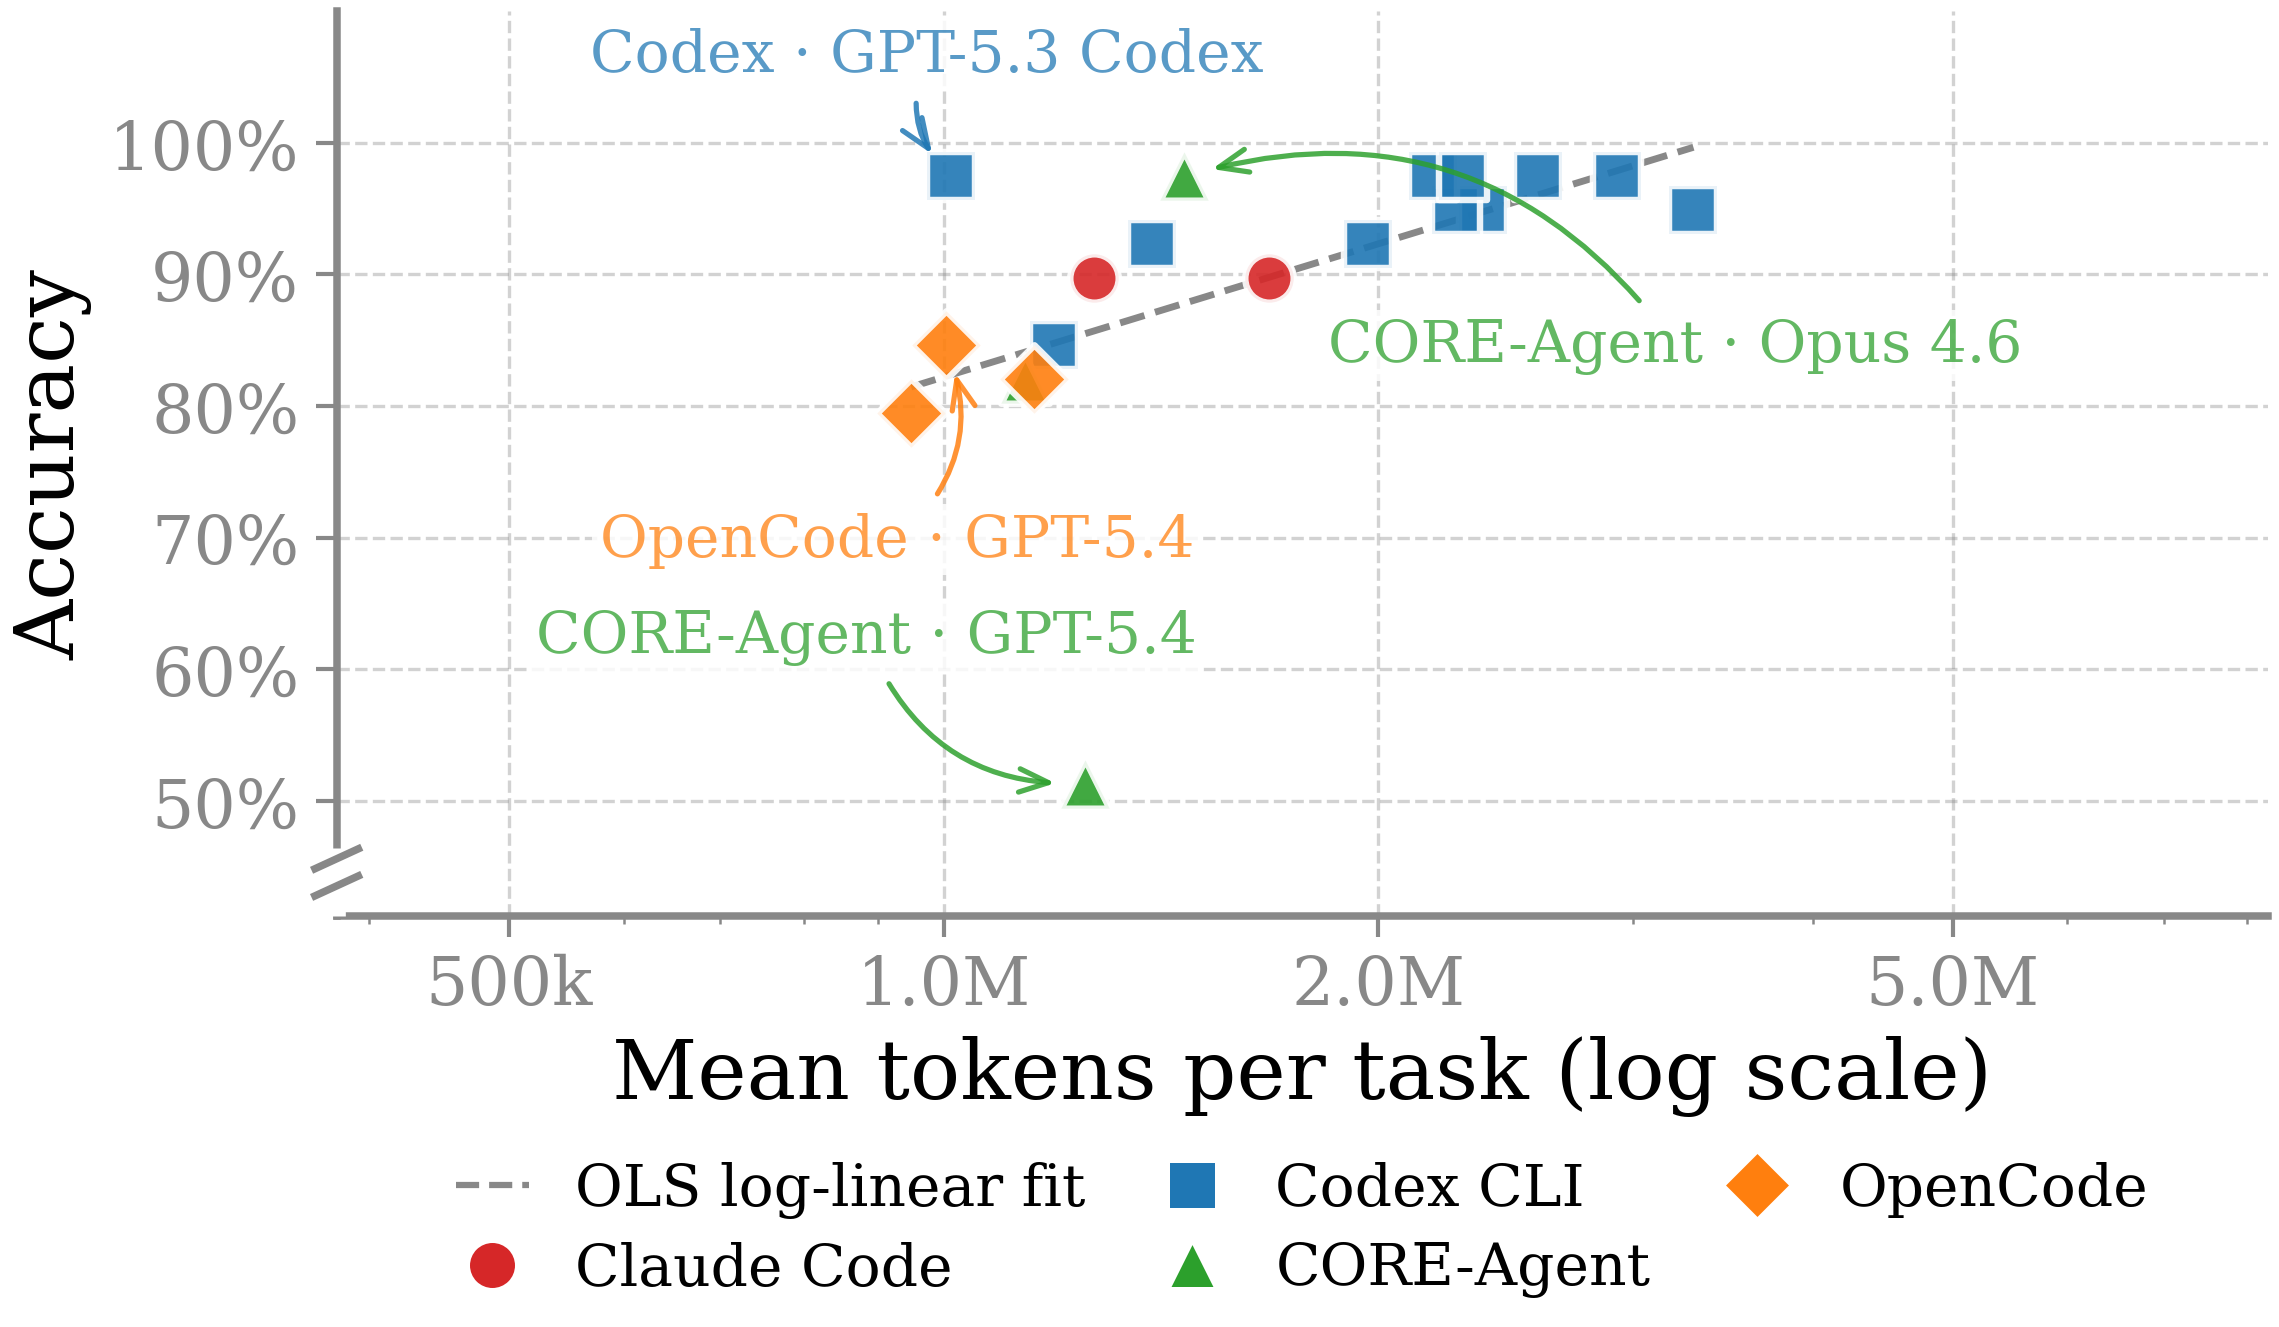
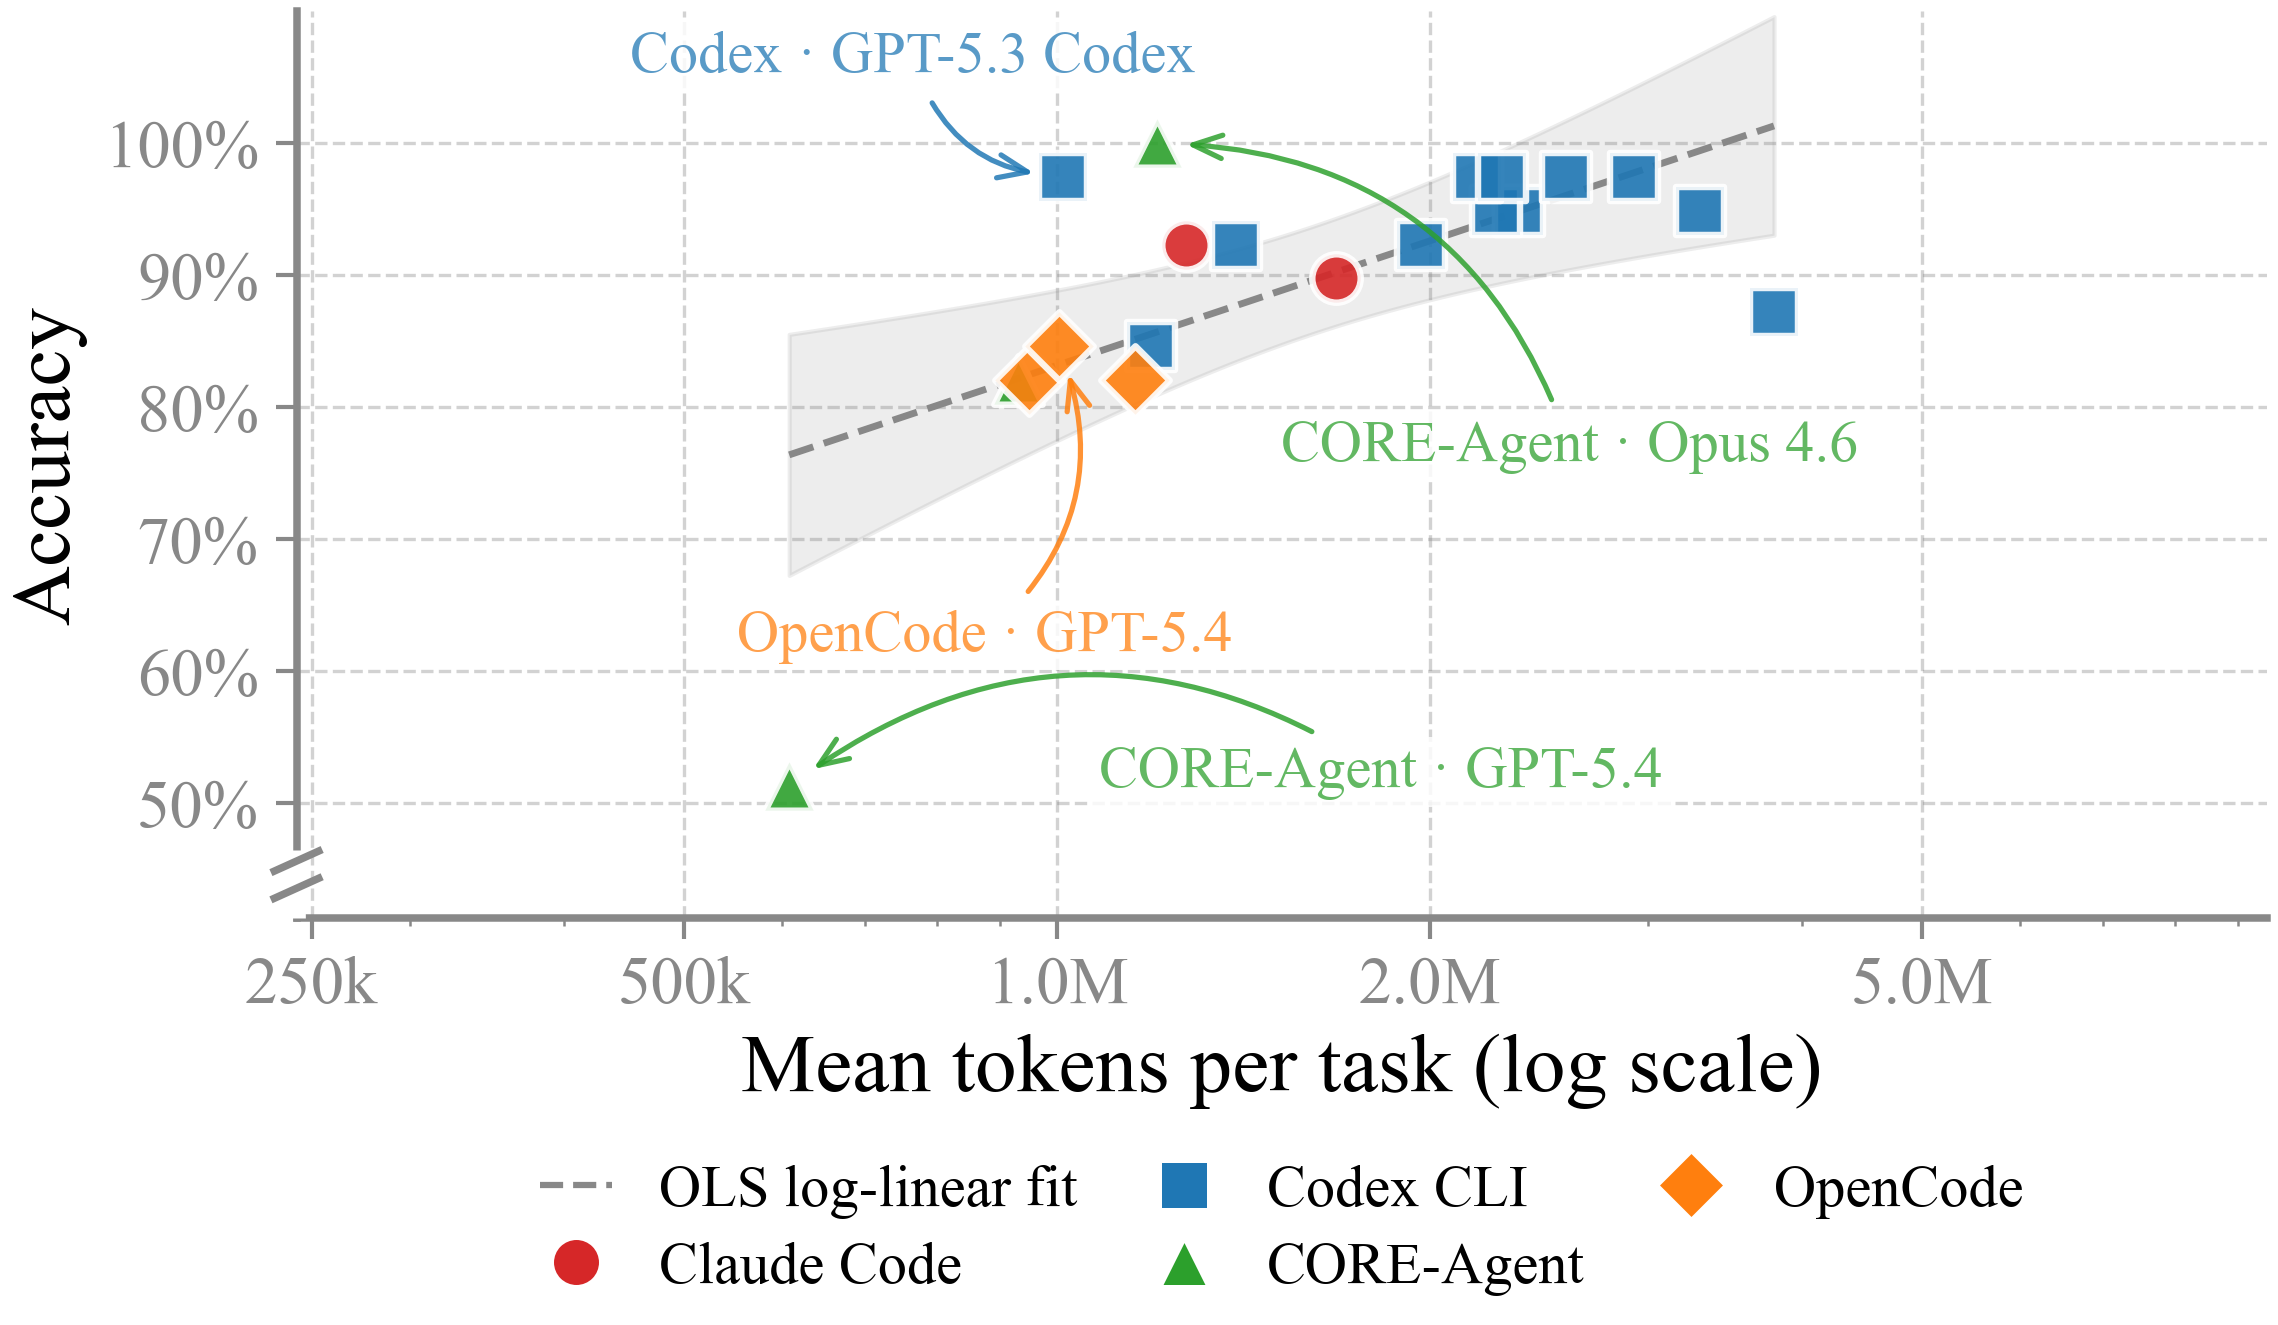
updating token usage figure

diff --git a/analysis/paper_figures.py b/analysis/paper_figures.py
@@ -419,6 +419,7 @@ def _plot_resource_accuracy_panel(
     x_label: str = "Mean tokens per task (log scale)",
     x_scale: str = "log",
     fit_line: bool = True,
+    fit_ci: bool = False,
     fit_excludes: tuple[str, ...] = (),
     label_substrings: dict[str, tuple[float, float, str]] | None = None,
     marker_size: float = 135,
@@ -432,16 +433,31 @@ def _plot_resource_accuracy_panel(
     style.style_axes(ax)
 
     if fit_line:
+        from scipy import stats as _stats
         fit_pts = df[~df["scaffold"].isin(fit_excludes)]
         if len(fit_pts) >= 3:
-            slope, intercept = np.polyfit(fit_pts["fit_x"], fit_pts["accuracy"], 1)
-            x_line = np.linspace(df["fit_x"].min(), df["fit_x"].max(), 50)
+            lx = fit_pts["fit_x"].values
+            y  = fit_pts["accuracy"].values
+            slope, intercept = np.polyfit(lx, y, 1)
+            x_line = np.linspace(df["fit_x"].min(), df["fit_x"].max(), 200)
             plot_x = 10 ** x_line if x_scale == "log" else x_line
+            y_line = slope * x_line + intercept
             ax.plot(
-                plot_x, slope * x_line + intercept,
+                plot_x, y_line,
                 color=style.GUIDE_GRAY, linewidth=1.65, linestyle="--",
                 zorder=2,
             )
+            if fit_ci and len(fit_pts) > 2:
+                n = len(lx)
+                y_hat = slope * lx + intercept
+                se = np.sqrt(np.sum((y - y_hat) ** 2) / (n - 2))
+                lx_mean = lx.mean()
+                ss_xx = np.sum((lx - lx_mean) ** 2)
+                t_crit = _stats.t.ppf(0.975, df=n - 2)
+                se_fit = se * np.sqrt(1 / n + (x_line - lx_mean) ** 2 / ss_xx)
+                ax.fill_between(plot_x, y_line - t_crit * se_fit,
+                                y_line + t_crit * se_fit,
+                                color=style.GUIDE_GRAY, alpha=0.15, zorder=1)
 
     for sc, sub in df.groupby("scaffold"):
         ax.scatter(
@@ -494,6 +510,7 @@ def fig_tokens_vs_accuracy(eff: pd.DataFrame, path: Path, *, title: str | None =
                            x_label: str = "Mean tokens per task (log scale)",
                            x_scale: str = "log",
                            fit_line: bool = True,
+                           fit_ci: bool = True,
                            fit_excludes: tuple[str, ...] = (),
                            label_substrings: dict[str, tuple[float, float, str]] | None = None):
     """Scatter of resource-usage (log) vs accuracy. Each scaffold gets
@@ -507,7 +524,7 @@ def fig_tokens_vs_accuracy(eff: pd.DataFrame, path: Path, *, title: str | None =
     fig, ax = plt.subplots(figsize=(8.5, 7.0))
     df = _plot_resource_accuracy_panel(
         ax, eff, x_col=x_col, x_label=x_label,
-        x_scale=x_scale, fit_line=fit_line, fit_excludes=fit_excludes,
+        x_scale=x_scale, fit_line=fit_line, fit_ci=fit_ci, fit_excludes=fit_excludes,
         label_substrings=label_substrings,
     )
     handles = _resource_accuracy_handles(df, fit_excludes, x_scale=x_scale)
@@ -710,7 +727,8 @@ def fig_tokens_vs_accuracy_landscape(
     fig, ax = plt.subplots(figsize=(style.PAPER_W, 5.0))
     df = _plot_resource_accuracy_panel(
         ax, eff, x_col=x_col, x_label=x_label,
-        x_scale=x_scale, fit_line=fit_line, fit_excludes=fit_excludes,
+        x_scale=x_scale, fit_line=fit_line, fit_ci=fit_line,
+        fit_excludes=fit_excludes,
         label_substrings=label_substrings,
         marker_size=135, annotation_fontsize=14,
     )